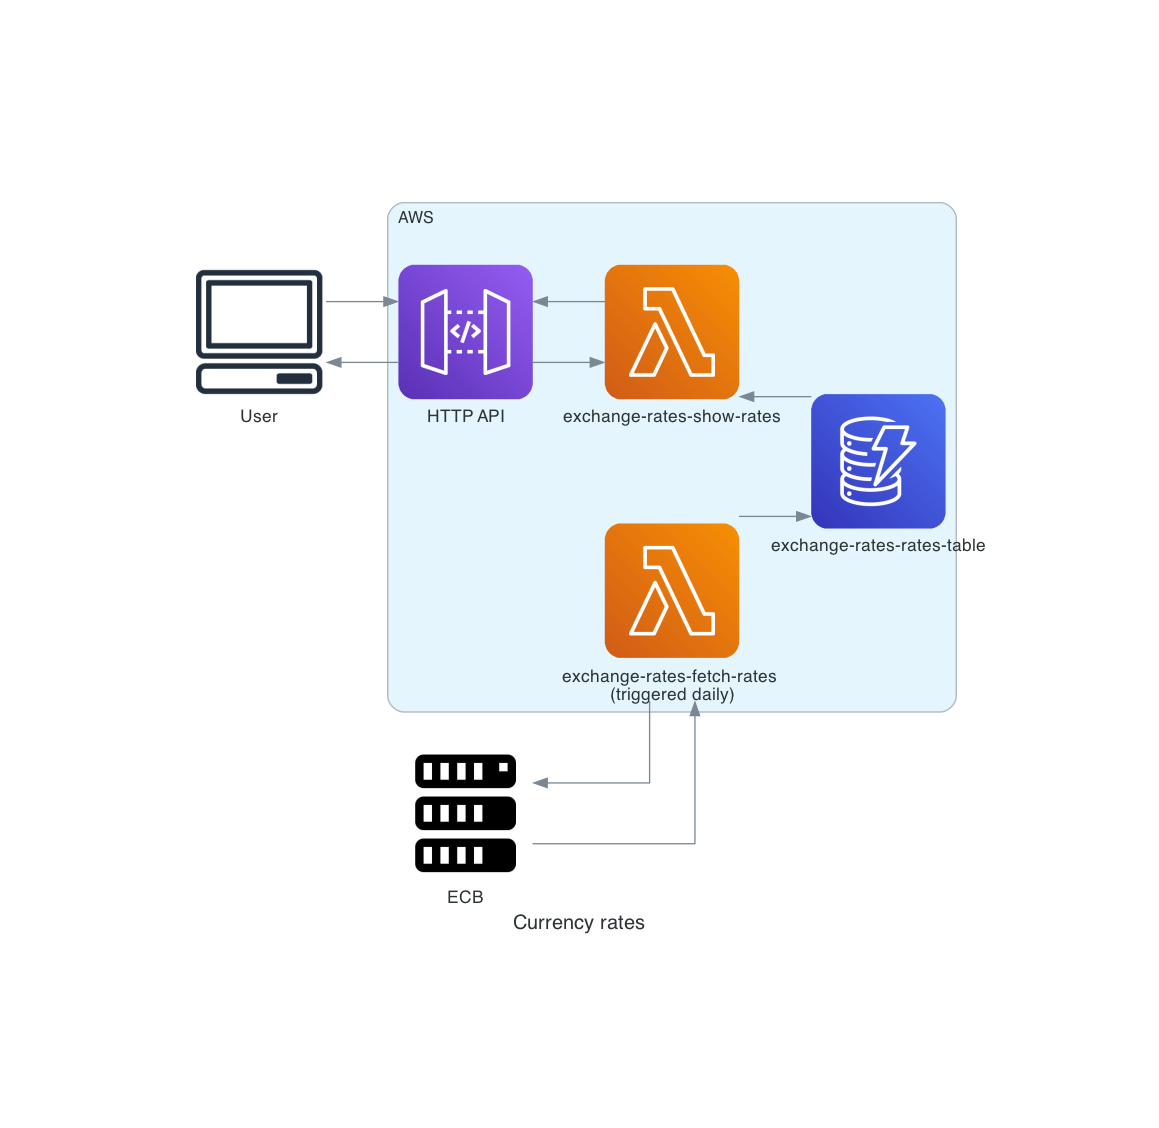
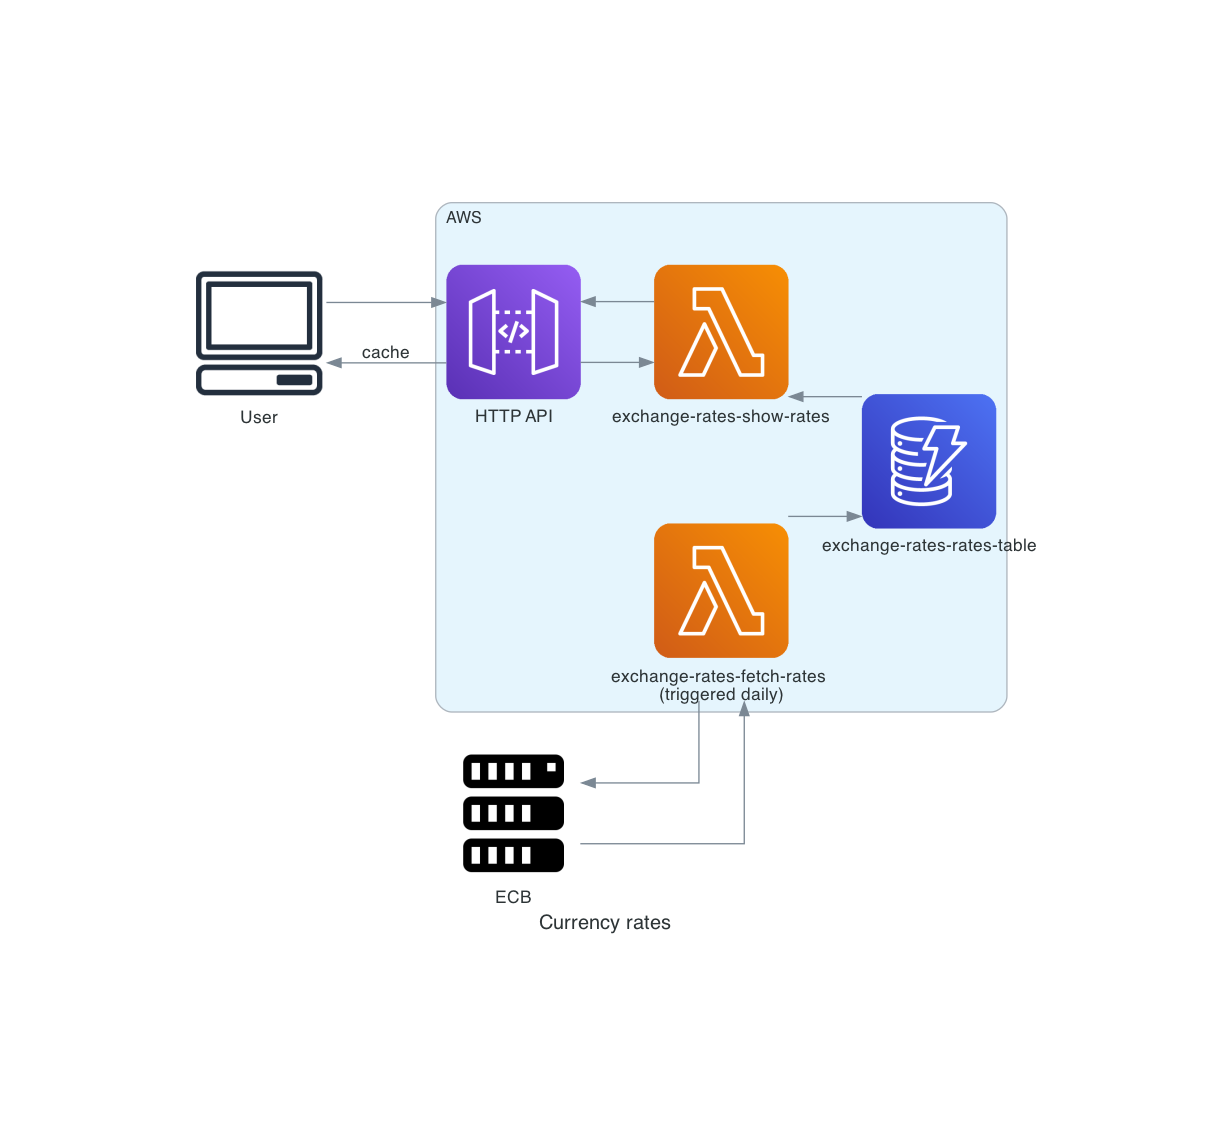
DLQ manual config, missing daily rates handler, docs

Changed region(s): [[0.1553, 0.1551, 0.8697, 0.8067], [0.4349, 0.8067, 0.497, 0.8378], [0.528, 0.8067, 0.5591, 0.8378]]

diff --git a/tests/handlers/test_store_rates.py b/tests/handlers/test_store_rates.py
@@ -1,0 +1,42 @@
+import pytest
+import responses
+from boto3.dynamodb.conditions import Key
+
+from src.constants import EBC_RATES_URL
+from src.errors import NoNewRatesError
+from src.handlers.store_rates import handle as store_rates_handler
+
+
+@pytest.mark.parametrize(
+    "event,db_response",
+    (
+        ({"input": 1}, [{'date': '2023-04-28', 'kind': 'rates', 'rates': '{"USD": 1.0981, "GBP": 0.8805, "PLN": 4.5815}'}]),
+        (
+            {"limit": 5}, [
+                {'date': '2023-04-28', 'kind': 'rates', 'rates': '{"USD": 1.0981, "GBP": 0.8805, "PLN": 4.5815}'},
+                {'date': '2023-04-27', 'kind': 'rates', 'rates': '{"USD": 1.0911, "GBP": 0.8905, "PLN": 4.5815}'}
+            ]
+        )
+    )
+)
+@responses.activate
+def test_store_rates(dynamodb_resource, xml_rates, lambda_context, event, db_response):
+    table = dynamodb_resource.Table("exchange-rates-rates-table")
+    responses.add(responses.GET, EBC_RATES_URL, body=xml_rates, status=200)
+
+    store_rates_handler(event=event, context=lambda_context)
+
+    response = table.query(
+        KeyConditionExpression=Key("kind").eq("rates"),
+        Limit=5,
+        ScanIndexForward=False,
+    )
+    assert response["Items"] == db_response
+
+
+def test_store_rates_no_new_rates_daily(dynamodb_resource, xml_rates, lambda_context):
+    _ = dynamodb_resource.Table("exchange-rates-rates-table")
+    responses.add(responses.GET, EBC_RATES_URL, body=xml_rates, status=200)
+
+    with pytest.raises(NoNewRatesError):
+        store_rates_handler(event={"limit": 1, "type": "daily-cron"}, context=lambda_context)

diff --git a/src/handlers/store_rates.py b/src/handlers/store_rates.py
@@ -1,10 +1,12 @@
 import os
+from datetime import date
 
 import boto3
 from aws_lambda_powertools import Logger
 from aws_lambda_powertools.utilities.typing import LambdaContext
 from kink import inject
 
+from src.errors import NoNewRatesError
 from src.helpers.databases import RatesStorage
 from src.helpers.http import EcbHttpClient
 from src.helpers.xml import EcbXmlExtractor
@@ -33,6 +35,12 @@ def handle(
     extractor = EcbXmlExtractor(xml_rates)
     extracted_rates = extractor.get_currency_data(limit=limit)
     logger.info("Storing rates")
+
+    if extracted_rates and extracted_rates[0].date != str(date.today()) and event.get("type") == "daily-cron":
+        description = "Daily fetched rates did not return today's rates"
+        logger.error(description)
+        raise NoNewRatesError(description)
+
     for rates in extracted_rates:
         logger.debug(f"{rates.date = }")
         logger.debug(f"{rates.rates = }")
@@ -46,8 +54,10 @@ def handle(
             restApiId=os.environ.get("APIGW_ID"),
             stageName=os.environ.get("APIGW_STAGE"),
         )
-        logger.info(response)
-        logger.info("API Gateway cache invalidated")
+        if response["ResponseMetadata"]["HTTPStatusCode"] == 202:
+            logger.info("API Gateway cache invalidated")
+        else:
+            logger.info("API Gateway cache invalidation problem", extra=response)
 
     logger.info(f"Successfully loaded {limit} item(s)")
     return f"Successfully loaded {limit} item(s)"

diff --git a/tests/conftest.py b/tests/conftest.py
@@ -25,17 +25,18 @@ def rates_storage(dynamodb_resource) -> RatesStorage:
 
 
 @pytest.fixture
-def aws_credentials():
+def env_vars_with_aws_credentials():
     """Mocked AWS Credentials for moto."""
     os.environ["AWS_ACCESS_KEY_ID"] = "testing"
     os.environ["AWS_SECRET_ACCESS_KEY"] = "testing"
     os.environ["AWS_DEFAULT_REGION"] = "eu-west-1"
     os.environ["AWS_SECURITY_TOKEN"] = "testing"
     os.environ["AWS_SESSION_TOKEN"] = "testing"
+    os.environ["APIGW_CACHED"] = "false"
 
 
 @pytest.fixture
-def dynamodb_resource(currencies_dict, aws_credentials):
+def dynamodb_resource(currencies_dict, env_vars_with_aws_credentials):
     with mock_dynamodb():
         client = boto3.client("dynamodb", region_name="eu-west-1")
         resource = boto3.resource("dynamodb", region_name="eu-west-1")
@@ -77,7 +78,12 @@ def xml_rates() -> str:
 	<Cube>
 		<Cube time='2023-04-28'>
 			<Cube currency='USD' rate='1.0981'/>
-			<Cube currency='GBP' rate='0.88050'/>
+			<Cube currency='GBP' rate='0.8805'/>
+			<Cube currency='PLN' rate='4.5815'/>
+		</Cube>
+		<Cube time='2023-04-27'>
+			<Cube currency='USD' rate='1.0911'/>
+			<Cube currency='GBP' rate='0.8905'/>
 			<Cube currency='PLN' rate='4.5815'/>
 		</Cube>
 	</Cube>

diff --git a/adr/resources/001-diagram.py b/adr/resources/001-diagram.py
@@ -4,7 +4,7 @@
 # cd adr/resources
 # python3 001-diagram.py
 
-from diagrams import Cluster, Diagram
+from diagrams import Cluster, Diagram, Edge
 from diagrams.aws.compute import Lambda
 from diagrams.aws.database import Dynamodb
 from diagrams.aws.network import APIGateway
@@ -21,8 +21,8 @@ with Diagram(name="Currency rates", filename="001-diagram", show=False):
         fetch_lambda = Lambda("exchange-rates-fetch-rates \n(triggered daily)")
         dynamo = Dynamodb("exchange-rates-rates-table")
 
-    user << apigw >> show_lambda << dynamo
-    user >> apigw << show_lambda
+    user >> apigw >> show_lambda << dynamo
+    user << Edge(label="cache") << apigw << show_lambda
 
     ecb << fetch_lambda >> dynamo
     ecb >> fetch_lambda

diff --git a/tests/helpers/test_xml.py b/tests/helpers/test_xml.py
@@ -1,6 +1,7 @@
 import pytest
 
 from src.errors import ErrorParsingXMLData
+from src.helpers.models import DailyRate
 from src.helpers.xml import EcbXmlExtractor
 
 
@@ -15,7 +16,10 @@ def test_xml_limit_higher_than_days_count(xml_rates, currencies_dict, daily_rate
     extractor = EcbXmlExtractor(xml_rates)
     rates_list = extractor.get_currency_data(limit=5)
 
-    assert rates_list == [daily_rate]
+    assert rates_list == [
+        DailyRate(date="2023-04-28", rates={"USD": 1.0981, "GBP": 0.8805, "PLN": 4.5815}),
+        DailyRate(date="2023-04-27", rates={"USD": 1.0911, "GBP": 0.8905, "PLN": 4.5815})
+    ]
 
 
 @pytest.mark.parametrize(

diff --git a/src/errors.py b/src/errors.py
@@ -8,3 +8,7 @@ class ErrorParsingXMLData(Exception):
 
 class DynamoDBError(Exception):
     pass
+
+
+class NoNewRatesError(Exception):
+    pass

diff --git a/README.md b/README.md
@@ -4,9 +4,14 @@ Currency exchange tracking application in the AWS lambda environment.  The appli
 [European Central Bank Data](https://www.ecb.europa.eu/stats/policy_and_exchange_rates/euro_reference_exchange_rates/html/index.en.html). 
 Exchange rates are fetched every day and stored in a DynamoDB table. The application exposes a public REST API endpoint 
 that provides current exchange rate information for all tracked currencies and their change compared to the previous day 
-for all the tracked currencies.
+for all the tracked currencies. Data provided is cached in API Gateway, however after each successful data fetch
+cache is flushed.
 
 ### Architecture
+
+API endpoint is served using serverless infrastructure (API Gateway + Lambda + DynamoDB) and data is loaded using Lambda
+function that is run on daily basis using CloudWatch (EventBridge) Rule. API Gateway cache is turned on, so only first 
+call is served from Lambda and DynamoDB.
 
 ![Resources diagram](adr/resources/001-diagram.png "Resources diagram")
 
@@ -26,6 +31,12 @@ And install npm dependencies:
 
 ```commandline
 npm install
+```
+
+Activate poetry env:
+
+```commandline
+poetry shell
 ```
 
 ### Deployment
